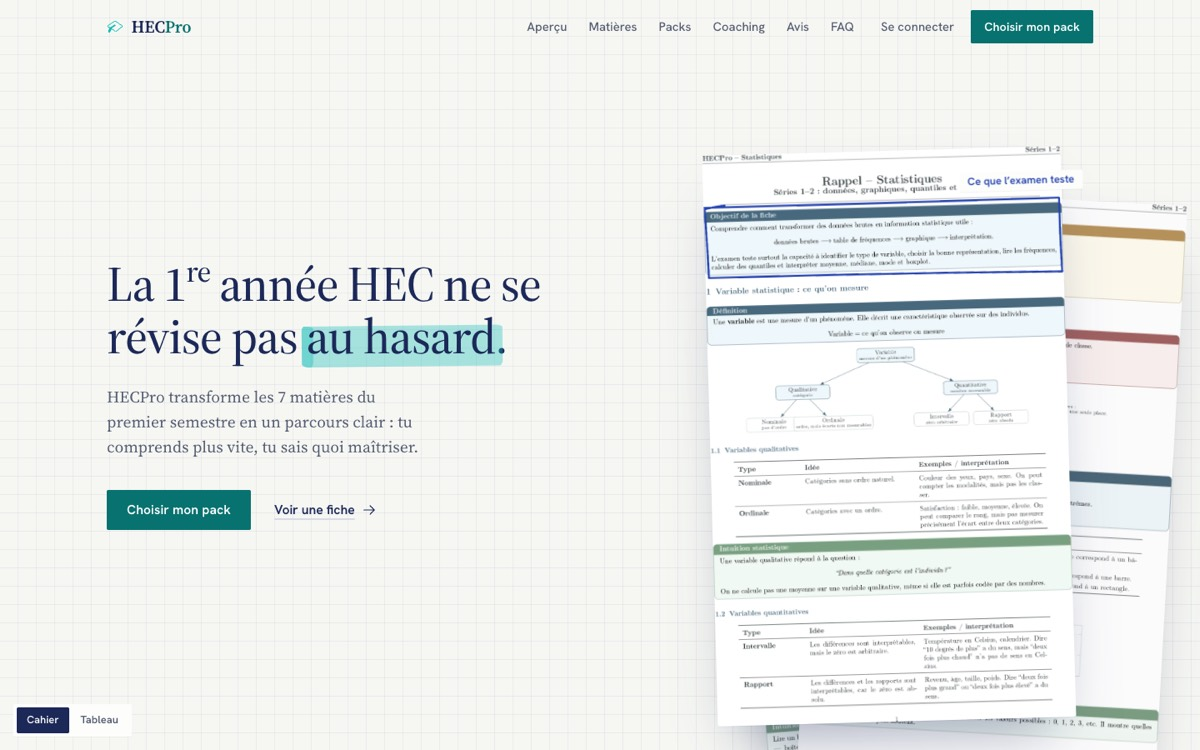
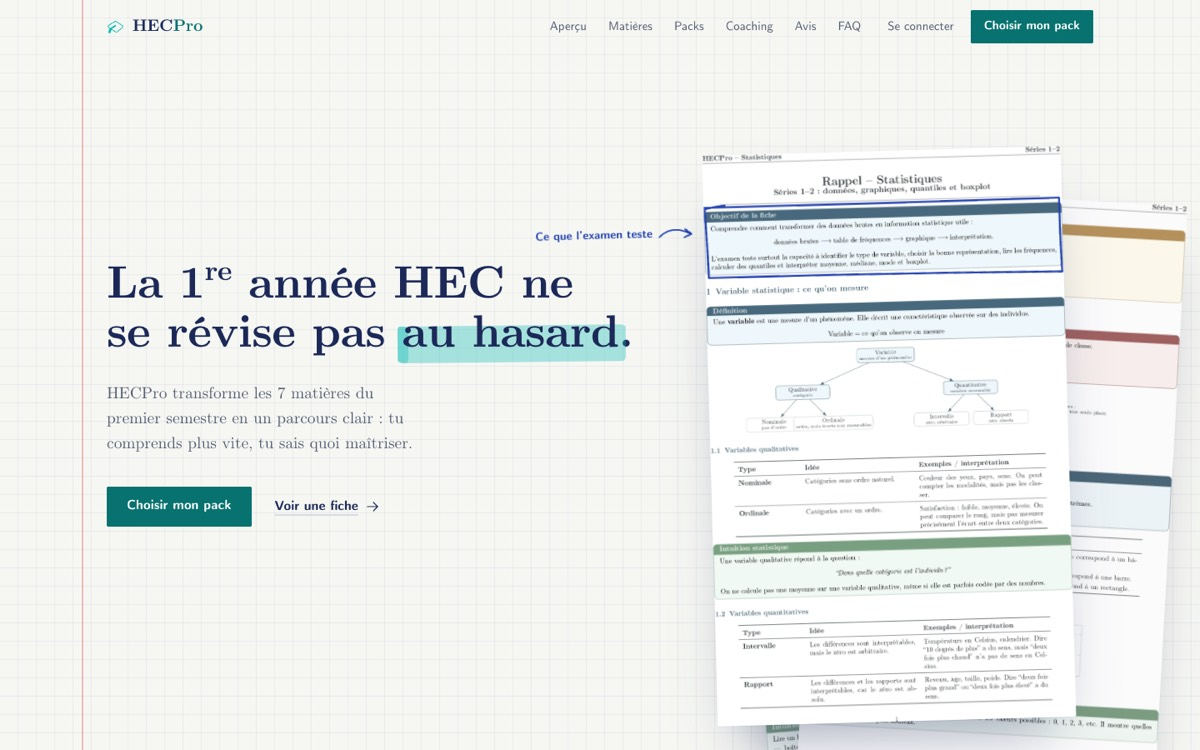
HECPro: single version, refreshed thumbnail

diff --git a/index.html b/index.html
@@ -110,10 +110,7 @@ const groups = [
       links: [['Preview', PAGES + 'letsmed-redesign/'], ['Current site', 'https://letsmed.de'], ['Repo', GH + 'letsmed-redesign']] },
     { name: 'HECPro', status: 'staging', date: '2026-10-13',
       desc: 'Redesign pitch for hecpro.ch, revision packs for first-years at HEC Lausanne, built around their real study sheets.',
-      shots: [
-        { label: 'A « Cahier »', img: 'hecpro', url: PAGES + 'hecpro-redesign/' },
-        { label: 'B « Tableau »', img: 'hecpro-b', url: PAGES + 'hecpro-redesign/?palette=b' },
-      ],
+      shots: [{ img: 'hecpro', url: PAGES + 'hecpro-redesign/' }],
       links: [['Preview', PAGES + 'hecpro-redesign/'], ['Current site', 'https://www.hecpro.ch'], ['Repo', GH + 'hecpro-redesign']] },
   ]},
   { title: 'Concepts & demos', items: [
